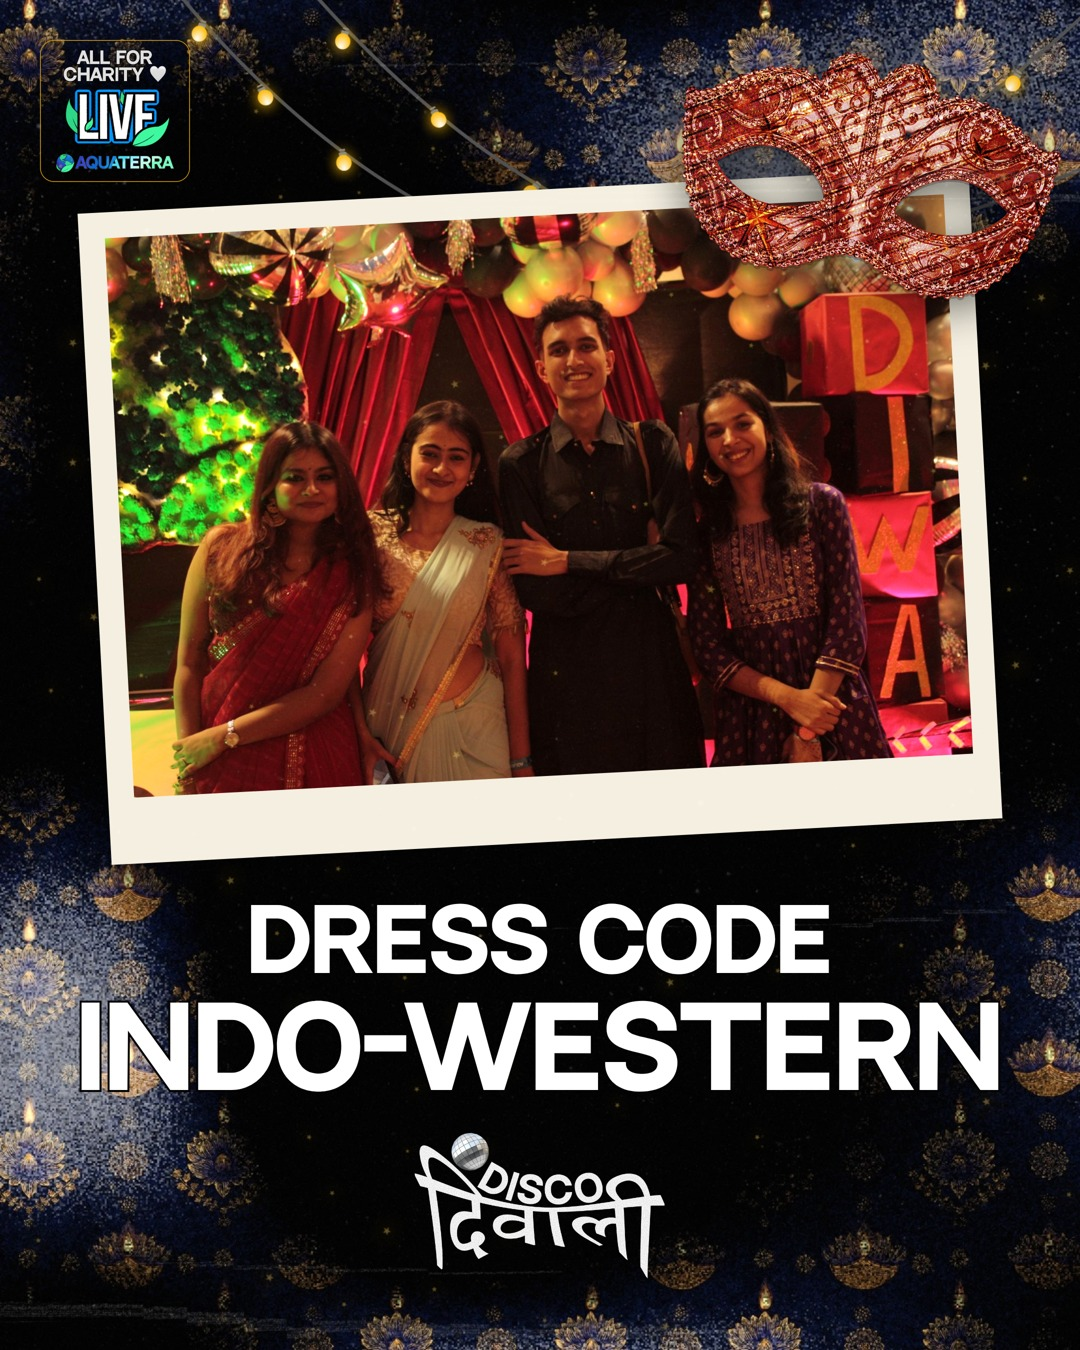
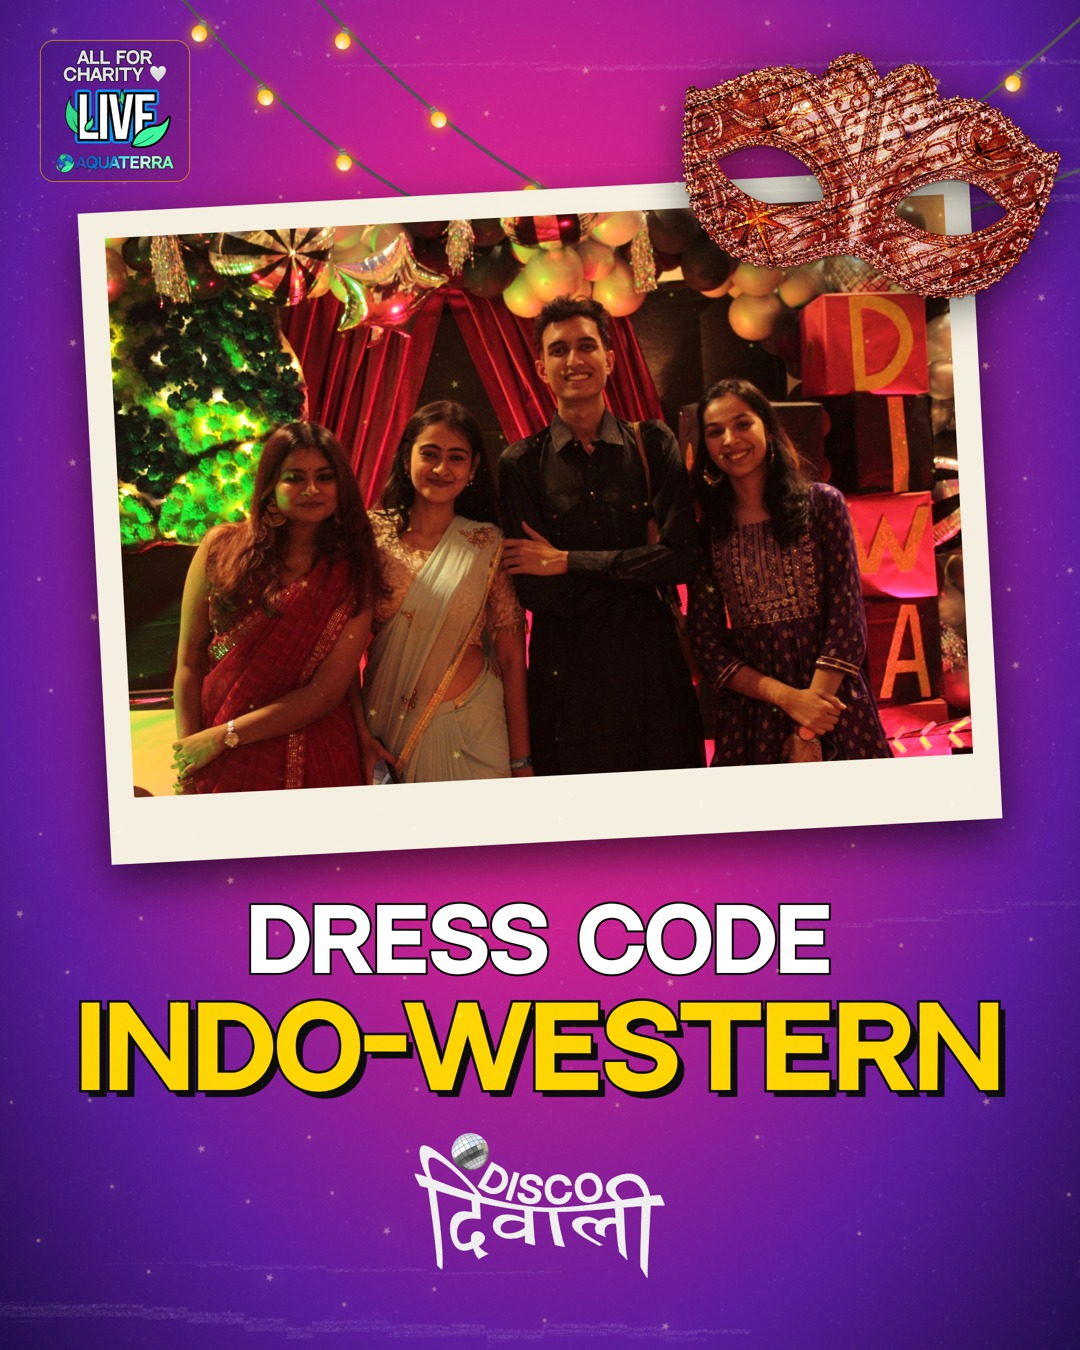
Dress code poster: magenta-purple ground, gold INDO-WESTERN with outline and hard shadow
Claude-Session: https://claude.ai/code/session_011Tdiin6aNXQLggVhcwaFdk

diff --git a/scratchpad/dd_dresscode.py b/scratchpad/dd_dresscode.py
@@ -8,14 +8,16 @@ ROOT = os.path.dirname(os.path.dirname(os.path.abspath(__file__)))
 sys.path.insert(0, os.path.join(ROOT, "engine")); sys.path.insert(0, os.path.dirname(os.path.abspath(__file__)))
 spec = importlib.util.spec_from_file_location("discodiwali", os.path.join(ROOT, "engine", "discodiwali.py"))
 dd = importlib.util.module_from_spec(spec); spec.loader.exec_module(dd)
-import dd_charity_ground as G
 B = dd.B; W = 1080
 OUT = os.path.join(ROOT, "out", "discodiwali", "dresscode")
 PHOTO = os.path.join(ROOT, "engine", "assets", "img", "events", "disco-diwali-dresscode", "01_four-friends-booth.jpg")
 STROKE = "color:#fff;-webkit-text-stroke:4px #000;paint-order:stroke fill;"
 def poster(H):
     story = H > 1350
-    parts, els = [G.ground_diya(W, H)], []
+    parts, els = [(f'<div data-tag="plate" style="position:absolute;inset:0;z-index:0;background:radial-gradient(ellipse at 50% 38%,#FF2D87 0%,#C41E8E 38%,#5B1A9E 72%,#1E0A4A 100%)"></div>'
+                   f'<img data-tag="lights" src="{dd.uri("string_lights.png")}" style="position:absolute;left:160px;top:-53px;width:1045px;z-index:5">'
+                   f'<img data-tag="plate" src="{dd.uri("sparkles.png")}" style="position:absolute;inset:0;width:{W}px;height:{H}px;object-fit:cover;z-index:30;mix-blend-mode:screen;opacity:.7;pointer-events:none">'
+                   f'<img data-tag="plate" src="{dd.uri("grain.png")}" style="position:absolute;inset:0;width:{W}px;height:{H}px;object-fit:cover;z-index:31;mix-blend-mode:screen;opacity:.3;pointer-events:none">')], []
     bx, by, bw = 40, (210 if story else 40), 150
     parts.append(f'<img data-tag="badge" src="{dd.uri("live_badge.png")}" style="position:absolute;left:{bx}px;top:{by}px;width:{bw}px;z-index:20">'); els.append(("badge", bx, by, bw, round(bw * 1005 / 1061)))
     pw, ph = (920, 700) if story else (840, 560)
@@ -35,7 +37,9 @@ def poster(H):
                      f'text-transform:uppercase;white-space:nowrap;{STROKE}z-index:20">{txt}</div>'); els.append((tag, 40, top, 1000, h))
     hy = fy + fh + (70 if story else 60)
     line("h1", "Dress code", hy, 84, 700, 84)
-    s2 = 108; line("h2", "Indo-Western", hy + 96, s2, 700, s2)
+    s2 = 108
+    parts.append(f'<div data-tag="h2" style="position:absolute;left:0;width:{W}px;top:{hy + 96}px;text-align:center;font-family:var(--d);font-weight:700;font-size:{s2}px;line-height:1;'
+                 f'text-transform:uppercase;white-space:nowrap;color:#FFD400;-webkit-text-stroke:5px #0A0A0A;paint-order:stroke fill;text-shadow:7px 7px 0 #0A0A0A;z-index:20">Indo-Western</div>'); els.append(("h2", 40, hy + 96, 1000, s2))
     y = hy + 96 + s2 + (44 if story else 28)
     vw = 300 if story else 250; t = vw / 1717; vh = round(991 * t); vx = (W - vw) // 2
     parts.append(f'<img data-tag="title" src="{dd.uri("title_lockup.png")}" style="position:absolute;left:{round(vx - 265 * t)}px;top:{round(y - 320 * t)}px;width:{round(2000 * t)}px;z-index:9">')
@@ -46,6 +50,6 @@ async def main():
     async with B.session():
         for name, H in (("feed", 1350), ("story", 1920)):
             inner, els, bottom = poster(H); print(f"[{name}] last element ends at y={bottom} of {H}")
-            await B.render(B.page(W, H, "#000", inner, grain=False), os.path.join(OUT, f"{name}.png"), W, H, elements=els, bleed_tags=("plate", "lights"), crop_tags=("plate",), page_bg="#000",
-                           collision_ignore=[("frame", "sticker"), ("frame", "badge")], text_pairs=[("h2", "#fff", "#000", 108, True)])
+            await B.render(B.page(W, H, "#000", inner, grain=False), os.path.join(OUT, f"{name}.png"), W, H, elements=els, bleed_tags=("plate", "lights", "h2"), crop_tags=("plate",), page_bg="#000",
+                           collision_ignore=[("frame", "sticker"), ("frame", "badge")], text_pairs=[("h2", "#FFD400", "#C41E8E", 108, True)])
 asyncio.run(main())
